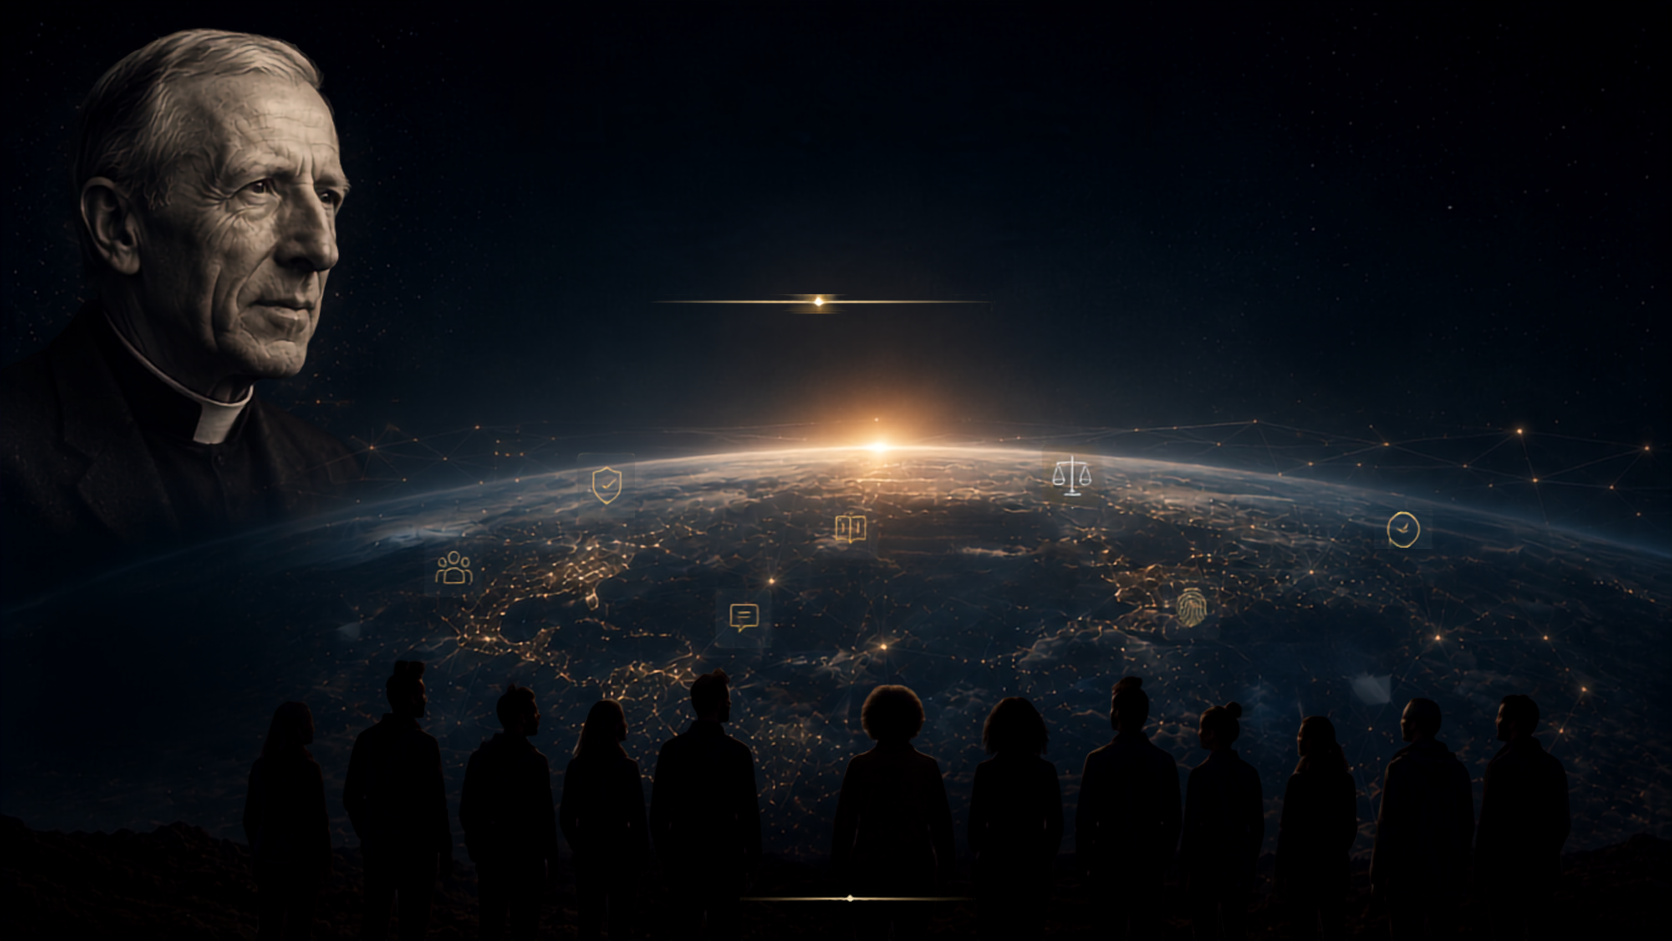
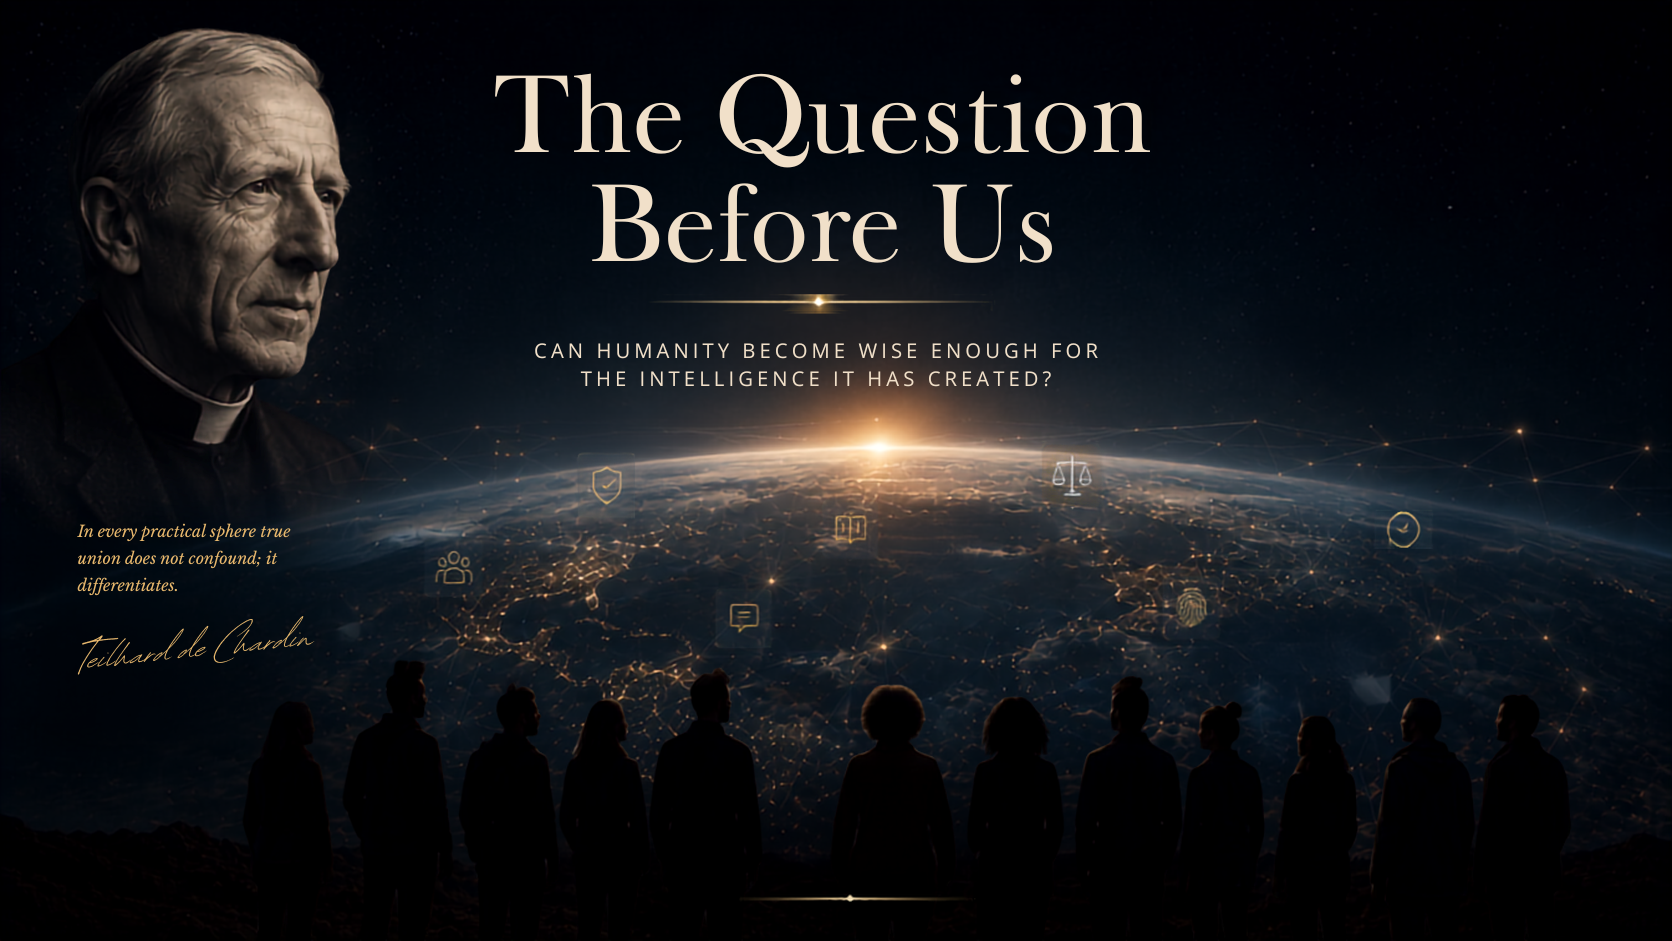
feat(campaign): nav-only Teilhard hero with baked-in artwork
Replace hero image from agent drop ff933924 and add overlay.mode nav-only
so the home page shows full-bleed art without duplicate HTML headline, quote,
scrim, or hero CTAs. Site navigation links remain in the header.

diff --git a/static/css/campaign-pages.css b/static/css/campaign-pages.css
@@ -218,6 +218,32 @@
   min-height: min(85vh, 56rem);
 }
 
+.gh-campaign-hero-nav-only.gh-campaign-hero-has-image {
+  min-height: 0;
+  display: block;
+}
+
+.gh-campaign-hero-nav-only.gh-campaign-hero-full-bleed {
+  margin: -2rem calc(50% - 50vw) 0;
+  padding: 0;
+}
+
+.gh-campaign-hero-nav-only .gh-campaign-hero-media {
+  position: relative;
+  inset: auto;
+  height: auto;
+}
+
+.gh-campaign-hero-nav-only .gh-campaign-hero-image {
+  width: 100%;
+  height: auto;
+  object-fit: contain;
+}
+
+.gh-campaign-body:has(.gh-campaign-hero-nav-only) .gh-campaign-main {
+  padding-top: 0;
+}
+
 .gh-campaign-hero-full-bleed {
   margin: -2rem calc(50% - 50vw) 0;
   width: 100vw;

diff --git a/services/campaign_render.py b/services/campaign_render.py
@@ -261,7 +261,7 @@ def campaign_shell(
   <title>{_esc(page_title)} – {_esc(cfg.title)}</title>
   <link href="https://cdn.jsdelivr.net/npm/bootstrap@5.3.3/dist/css/bootstrap.min.css" rel="stylesheet">
   <link href="https://cdnjs.cloudflare.com/ajax/libs/font-awesome/6.0.0/css/all.min.css" rel="stylesheet">
-  <link href="/static/css/campaign-pages.css?v=9" rel="stylesheet">
+  <link href="/static/css/campaign-pages.css?v=10" rel="stylesheet">
   {extra_head}
 </head>
 <body class="gh-campaign-body">
@@ -375,13 +375,20 @@ def _campaign_hero_ghost_links_html(cfg: CampaignConfig, *, max_links: int = 2) 
     return f'<div class="gh-campaign-hero-ghosts">{"".join(ghost_links)}</div>'
 
 
+def _campaign_hero_nav_only(hero: Dict[str, Any]) -> bool:
+    overlay = hero.get('overlay') or {}
+    mode = str(overlay.get('mode') or 'full').strip().lower().replace('_', '-')
+    return mode in {'nav-only', 'none', 'nav'}
+
+
 def _campaign_hero_section(cfg: CampaignConfig, *, primary_href: str, primary: Dict[str, Any]) -> str:
     hero = _campaign_hero_settings(cfg)
     hero_url = (hero.get('imageUrl') or cfg.hero_image_url or '').strip()
     full_bleed = bool(hero.get('fullBleed', True))
     fit = (hero.get('fit') or 'cover').strip().lower()
     overlay = hero.get('overlay') or {}
-    scrim = (overlay.get('scrim') or 'gradient-left').strip()
+    nav_only = _campaign_hero_nav_only(hero)
+    scrim = (overlay.get('scrim') or ('none' if nav_only else 'gradient-left')).strip()
     text_align = (overlay.get('textAlign') or 'left').strip().lower()
 
     hero_classes = ['gh-campaign-hero']
@@ -391,22 +398,30 @@ def _campaign_hero_section(cfg: CampaignConfig, *, primary_href: str, primary: D
         hero_classes.append('gh-campaign-hero-full-bleed')
     if fit == 'contain':
         hero_classes.append('gh-campaign-hero-fit-contain')
-    if scrim == 'panel-left':
+    if nav_only:
+        hero_classes.append('gh-campaign-hero-nav-only')
+    elif scrim == 'panel-left':
         hero_classes.append('gh-campaign-hero-scrim-panel')
+
+    media_html = ''
+    if hero_url:
+        scrim_html = ''
+        if scrim and scrim != 'none':
+            scrim_class = f'gh-campaign-hero-scrim gh-campaign-hero-scrim-{scrim.replace("_", "-")}'
+            scrim_html = f'\n      <div class="{_esc(scrim_class)}"></div>'
+        media_html = f'''
+      <div class="gh-campaign-hero-media" aria-hidden="true">
+        <img class="gh-campaign-hero-image" src="{_esc(hero_url)}" alt="">
+      </div>{scrim_html}'''
+
+    if nav_only:
+        return f'''
+    <section class="{" ".join(hero_classes)}">{media_html}
+    </section>'''
 
     content_classes = ['gh-campaign-hero-content']
     if text_align in {'left', 'center', 'right'}:
         content_classes.append(f'gh-campaign-hero-align-{text_align}')
-
-    scrim_class = f'gh-campaign-hero-scrim gh-campaign-hero-scrim-{scrim.replace("_", "-")}'
-
-    media_html = ''
-    if hero_url:
-        media_html = f'''
-      <div class="gh-campaign-hero-media" aria-hidden="true">
-        <img class="gh-campaign-hero-image" src="{_esc(hero_url)}" alt="">
-      </div>
-      <div class="{_esc(scrim_class)}"></div>'''
 
     quote_html = _campaign_hero_quote_html(cfg)
     ghost_links_html = _campaign_hero_ghost_links_html(cfg)
@@ -694,7 +709,7 @@ def render_embed_draft_reader(draft_ref: str, *, modal_theme: str = 'dark') -> t
   <link href="https://cdnjs.cloudflare.com/ajax/libs/font-awesome/6.0.0/css/all.min.css" rel="stylesheet">
   <link href="/static/css/govhub-design.css?v={BUILD_NUMBER}" rel="stylesheet">
   <link href="/static/css/dp-proposals-reader.css?v={BUILD_NUMBER}" rel="stylesheet">
-  <link href="/static/css/campaign-pages.css?v=9" rel="stylesheet">
+  <link href="/static/css/campaign-pages.css?v=10" rel="stylesheet">
 </head>
 <body class="gh-embed-draft-reader {theme_class}">
   <header class="gh-embed-reader-toolbar">
@@ -722,7 +737,7 @@ def render_embed_slides_pdf(pdf_url: str, *, title: str = 'Slide deck') -> str:
   <meta charset="utf-8">
   <meta name="viewport" content="width=device-width, initial-scale=1">
   <title>{title_esc}</title>
-  <link href="/static/css/campaign-pages.css?v=9" rel="stylesheet">
+  <link href="/static/css/campaign-pages.css?v=10" rel="stylesheet">
 </head>
 <body class="gh-embed-pdf-reader">
   <div class="gh-embed-pdf-native">

diff --git a/test_campaign_embeds.py b/test_campaign_embeds.py
@@ -15,14 +15,11 @@ def test_campaign_seed_has_hero_image():
     assert cfg is not None
     assert cfg.hero_image_url == '/static/campaign/teilhard/assets/hero.png'
     assert cfg.hero.get('fit') == 'contain'
-    assert cfg.hero.get('overlay', {}).get('scrim') == 'panel-left'
-    assert cfg.hero_question == 'Can humanity grow into the intelligence it has created?'
-    assert cfg.hero.get('quote') == (
-        'No distinct center of superhuman consciousness has yet appeared on earth.'
-    )
-    assert cfg.hero.get('overlay', {}).get('primaryCta', {}).get('label') == (
-        'Read and Comment on the Paper'
-    )
+    assert cfg.hero.get('overlay', {}).get('mode') == 'nav-only'
+    assert cfg.hero.get('overlay', {}).get('scrim') == 'none'
+    assert cfg.hero_question == ''
+    assert cfg.hero.get('quote') == ''
+    assert cfg.hero.get('overlay', {}).get('primaryCta', {}) == {}
 
 
 def test_campaign_embeds_auto_derived():
@@ -125,16 +122,14 @@ def test_home_renders_hero_image():
     assert 'gh-campaign-hero-has-image' in html
     assert 'gh-campaign-hero-full-bleed' in html
     assert 'gh-campaign-hero-fit-contain' in html
-    assert 'gh-campaign-hero-scrim-panel' in html
+    assert 'gh-campaign-hero-nav-only' in html
     assert 'gh-campaign-hero-image' in html
     assert '/static/campaign/teilhard/assets/hero.png' in html
-    assert 'Can humanity grow into the intelligence it has created?' in html
-    assert 'No distinct center of superhuman consciousness has yet appeared on earth.' in html
-    assert 'Teilhard de Chardin' in html
+    assert 'gh-campaign-hero-content' not in html
+    assert 'gh-campaign-hero-quote' not in html
+    assert 'gh-campaign-hero-ctas' not in html
+    assert 'gh-campaign-hero-scrim' not in html
+    assert 'Can humanity grow into the intelligence it has created?' not in html
     assert '--gh-campaign-hero-position' not in html
     assert 'heroImagePosition' not in html
-    hero_html = html.split('gh-campaign-hero-content')[1].split('</section>')[0]
-    assert 'The Teilhard Test' in hero_html
-    assert 'The Overweb' not in hero_html
-    assert 'gh-campaign-hero-quote' in hero_html
-    assert 'btn-outline-light' not in hero_html
+    assert 'gh-campaign-nav-link' in html

diff --git a/services/campaign_pages.py b/services/campaign_pages.py
@@ -119,7 +119,20 @@ def normalize_hero_config(
     if fit not in {'cover', 'contain'}:
         fit = 'cover'
 
-    scrim = (overlay.get('scrim') or 'gradient-left').strip()
+    mode_raw = (
+        overlay.get('mode')
+        or hero.get('overlayMode')
+        or hero.get('overlay_mode')
+        or 'full'
+    )
+    mode = str(mode_raw).strip().lower().replace('_', '-')
+    if mode in {'nav-only', 'none', 'nav'}:
+        mode = 'nav-only'
+
+    nav_only = mode == 'nav-only'
+    scrim = (overlay.get('scrim') or ('none' if nav_only else 'gradient-left')).strip()
+    if nav_only:
+        scrim = 'none'
     text_align = (overlay.get('textAlign') or overlay.get('text_align') or 'left').strip()
 
     primary_cta = dict(
@@ -140,16 +153,17 @@ def normalize_hero_config(
     return {
         'imageUrl': image_url,
         'fullBleed': bool(full_bleed),
-        'kicker': str(kicker or '').strip(),
-        'headline': str(headline or '').strip(),
-        'quote': str(quote or '').strip(),
-        'quoteAttribution': str(quote_attribution or '').strip(),
+        'kicker': '' if nav_only else str(kicker or '').strip(),
+        'headline': '' if nav_only else str(headline or '').strip(),
+        'quote': '' if nav_only else str(quote or '').strip(),
+        'quoteAttribution': '' if nav_only else str(quote_attribution or '').strip(),
         'fit': fit,
         'overlay': {
+            'mode': mode,
             'scrim': scrim,
             'textAlign': text_align,
-            'primaryCta': primary_cta,
-            'ghostLinks': ghost_links,
+            'primaryCta': primary_cta if not nav_only else {},
+            'ghostLinks': ghost_links if not nav_only else [],
         },
     }
 

diff --git a/docs/CAMPAIGN_HERO_CONFIG.md b/docs/CAMPAIGN_HERO_CONFIG.md
@@ -60,7 +60,8 @@ systemctl --user restart datatracker.service   # production
 | `headline` | string | campaign `title` | `<h1>` text |
 | `quote` | string | (none) | Optional blockquote under headline |
 | `quoteAttribution` | string | (none) | `<cite>` under quote |
-| `overlay.scrim` | string | `gradient-left` | Legibility overlay: `gradient-left`, `gradient-bottom`, `gradient-full`, `panel-left` |
+| `overlay.mode` | string | `full` | `full` renders copy and CTAs; `nav-only` shows only the hero image (site nav remains in the header) |
+| `overlay.scrim` | string | `gradient-left` | Legibility overlay: `gradient-left`, `gradient-bottom`, `gradient-full`, `panel-left`, `none` |
 | `overlay.textAlign` | string | `left` | `left`, `center`, or `right` |
 | `overlay.primaryCta` | object | `primaryCta` at root | Primary button `{ label, href }` |
 | `overlay.ghostLinks` | array | `secondaryCtas` | Text links under primary CTA (max 2 rendered) |
@@ -69,6 +70,7 @@ systemctl --user restart datatracker.service   # production
 
 - **No `object-position` hacks.** The hero uses a real `<img>` with `object-fit: cover` and `object-position: center center` so the image is not artificially shifted to hide on-image text.
 - **`fit: contain`** shows the full image inside the hero frame (letterboxed on dark background). Use when the artwork must remain fully visible.
+- **`overlay.mode: nav-only`** shows only the hero image with no HTML headline, quote, scrim panel, or hero CTAs. Use when artwork includes baked-in text. Site navigation links remain in the header.
 - **`overlay.scrim: panel-left`** puts copy on a semi-transparent left panel instead of a full-image gradient.
 - **`fullBleed: true`** spans viewport width; pair with `contain` + `panel-left` to preserve artwork.
 
@@ -97,26 +99,14 @@ From `static/campaign/teilhard/campaign-seed.json`:
   "imageUrl": "/static/campaign/teilhard/assets/hero.png",
   "fullBleed": true,
   "fit": "contain",
-  "kicker": "The Teilhard Test",
-  "headline": "Can humanity grow into the intelligence it has created?",
-  "quote": "No distinct center of superhuman consciousness has yet appeared on earth.",
-  "quoteAttribution": "Teilhard de Chardin, The Formation of the Noösphere",
   "overlay": {
-    "scrim": "panel-left",
-    "textAlign": "left",
-    "primaryCta": {
-      "label": "Read and Comment on the Paper",
-      "href": "/docs/paper"
-    },
-    "ghostLinks": [
-      { "label": "Read the Statement", "href": "/docs/statement" },
-      { "label": "View the Slide Deck", "href": "/docs/slides" }
-    ]
+    "mode": "nav-only",
+    "scrim": "none"
   }
 }
 ```
 
-Hero asset: agent drop UUID `ad24f3c4-ecce-4a0a-a313-cbff81c2789a` → `static/campaign/teilhard/assets/hero.png`.
+Hero asset: agent drop UUID `ff933924-f935-4787-93fa-d32cd7b31d48` → `static/campaign/teilhard/assets/hero.png`.
 
 Document embeds: see [CAMPAIGN_ARTIFACTS_CONFIG.md](CAMPAIGN_ARTIFACTS_CONFIG.md).
 
